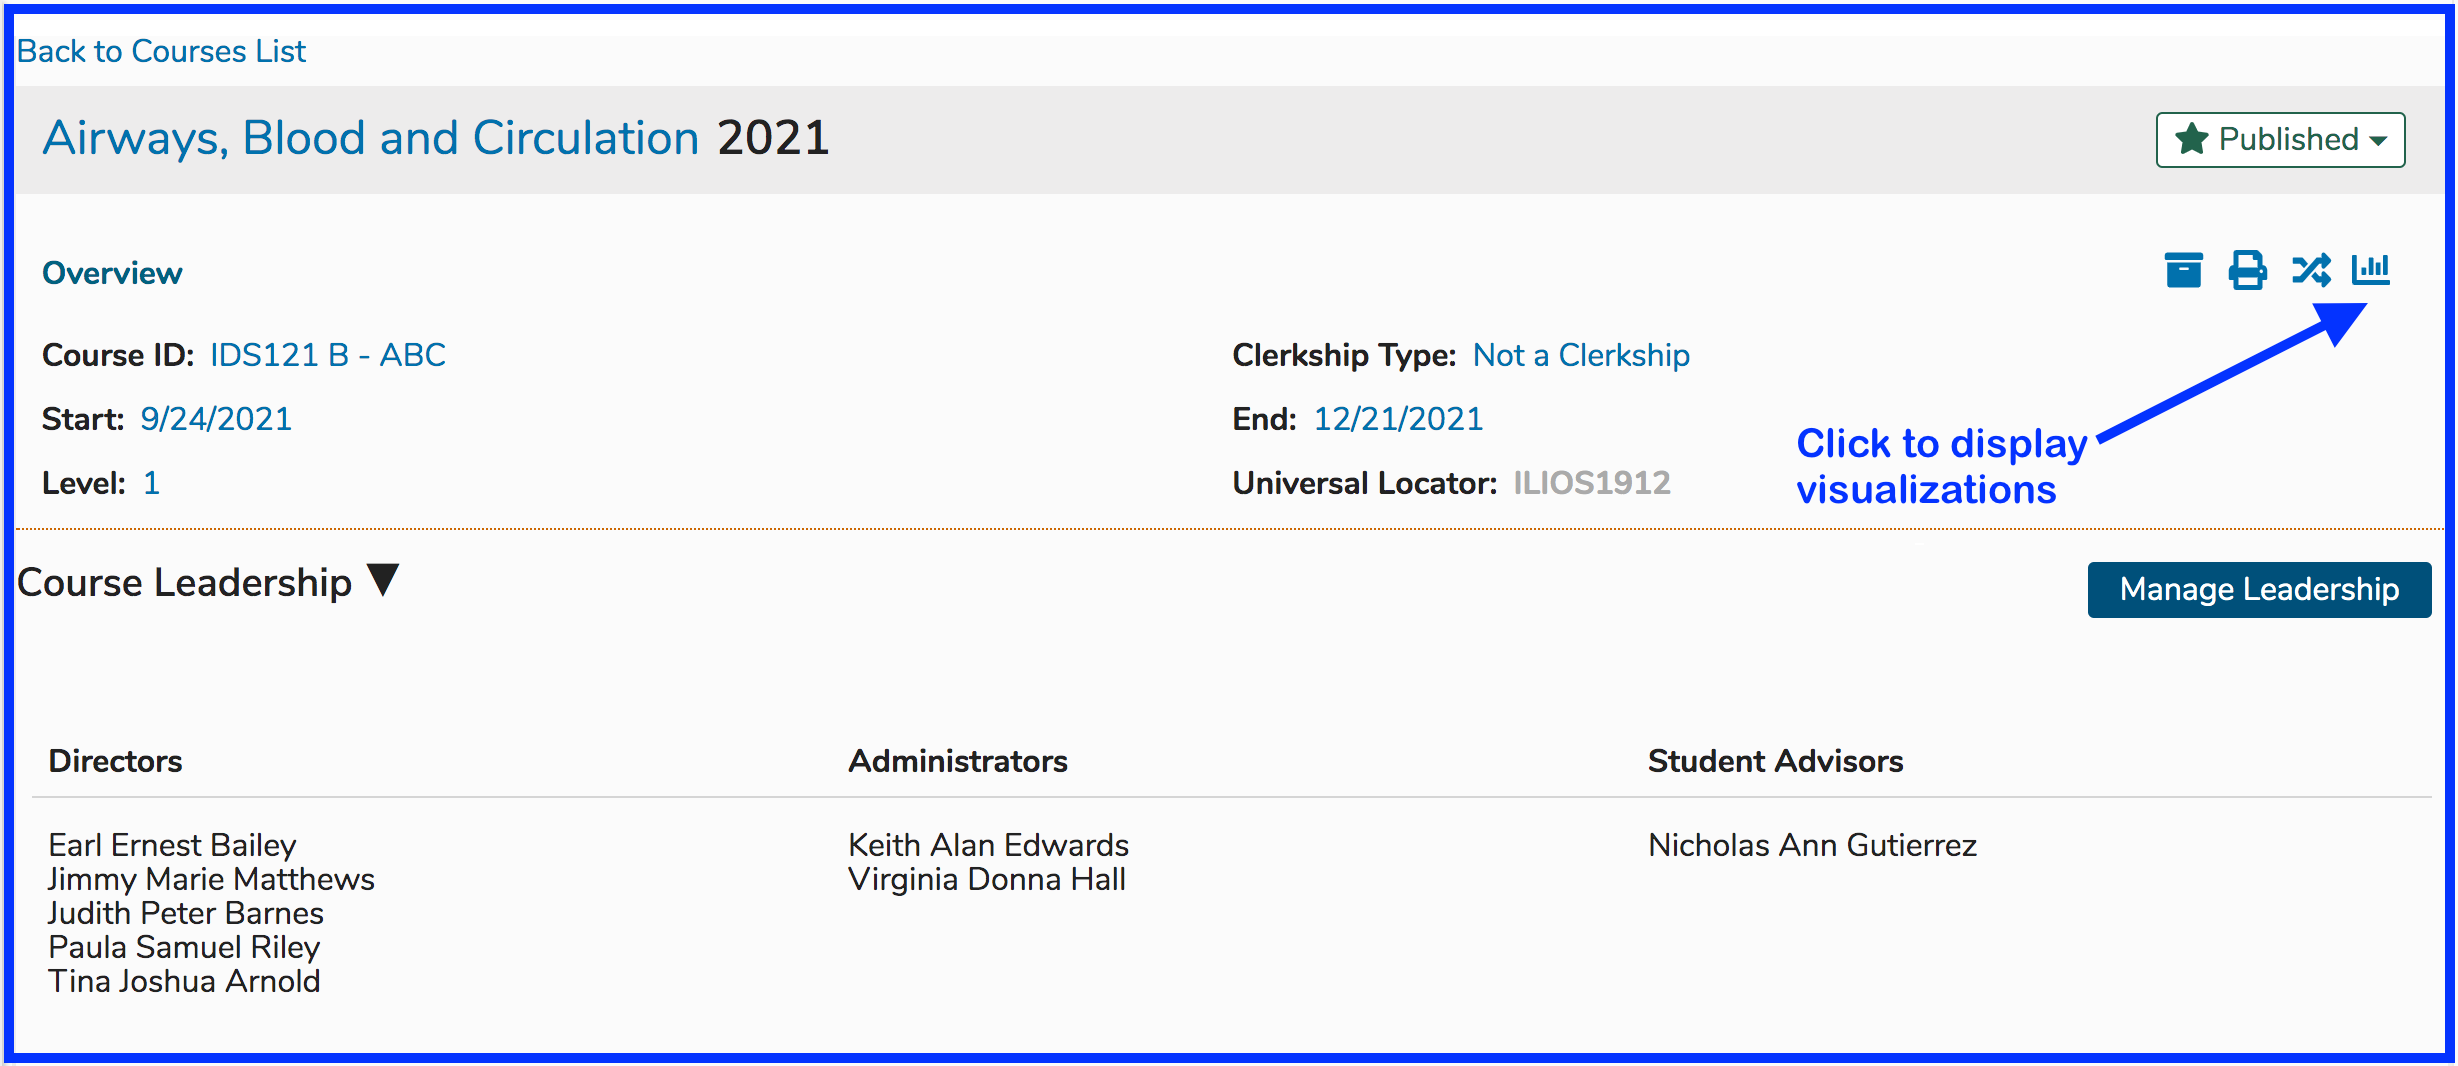
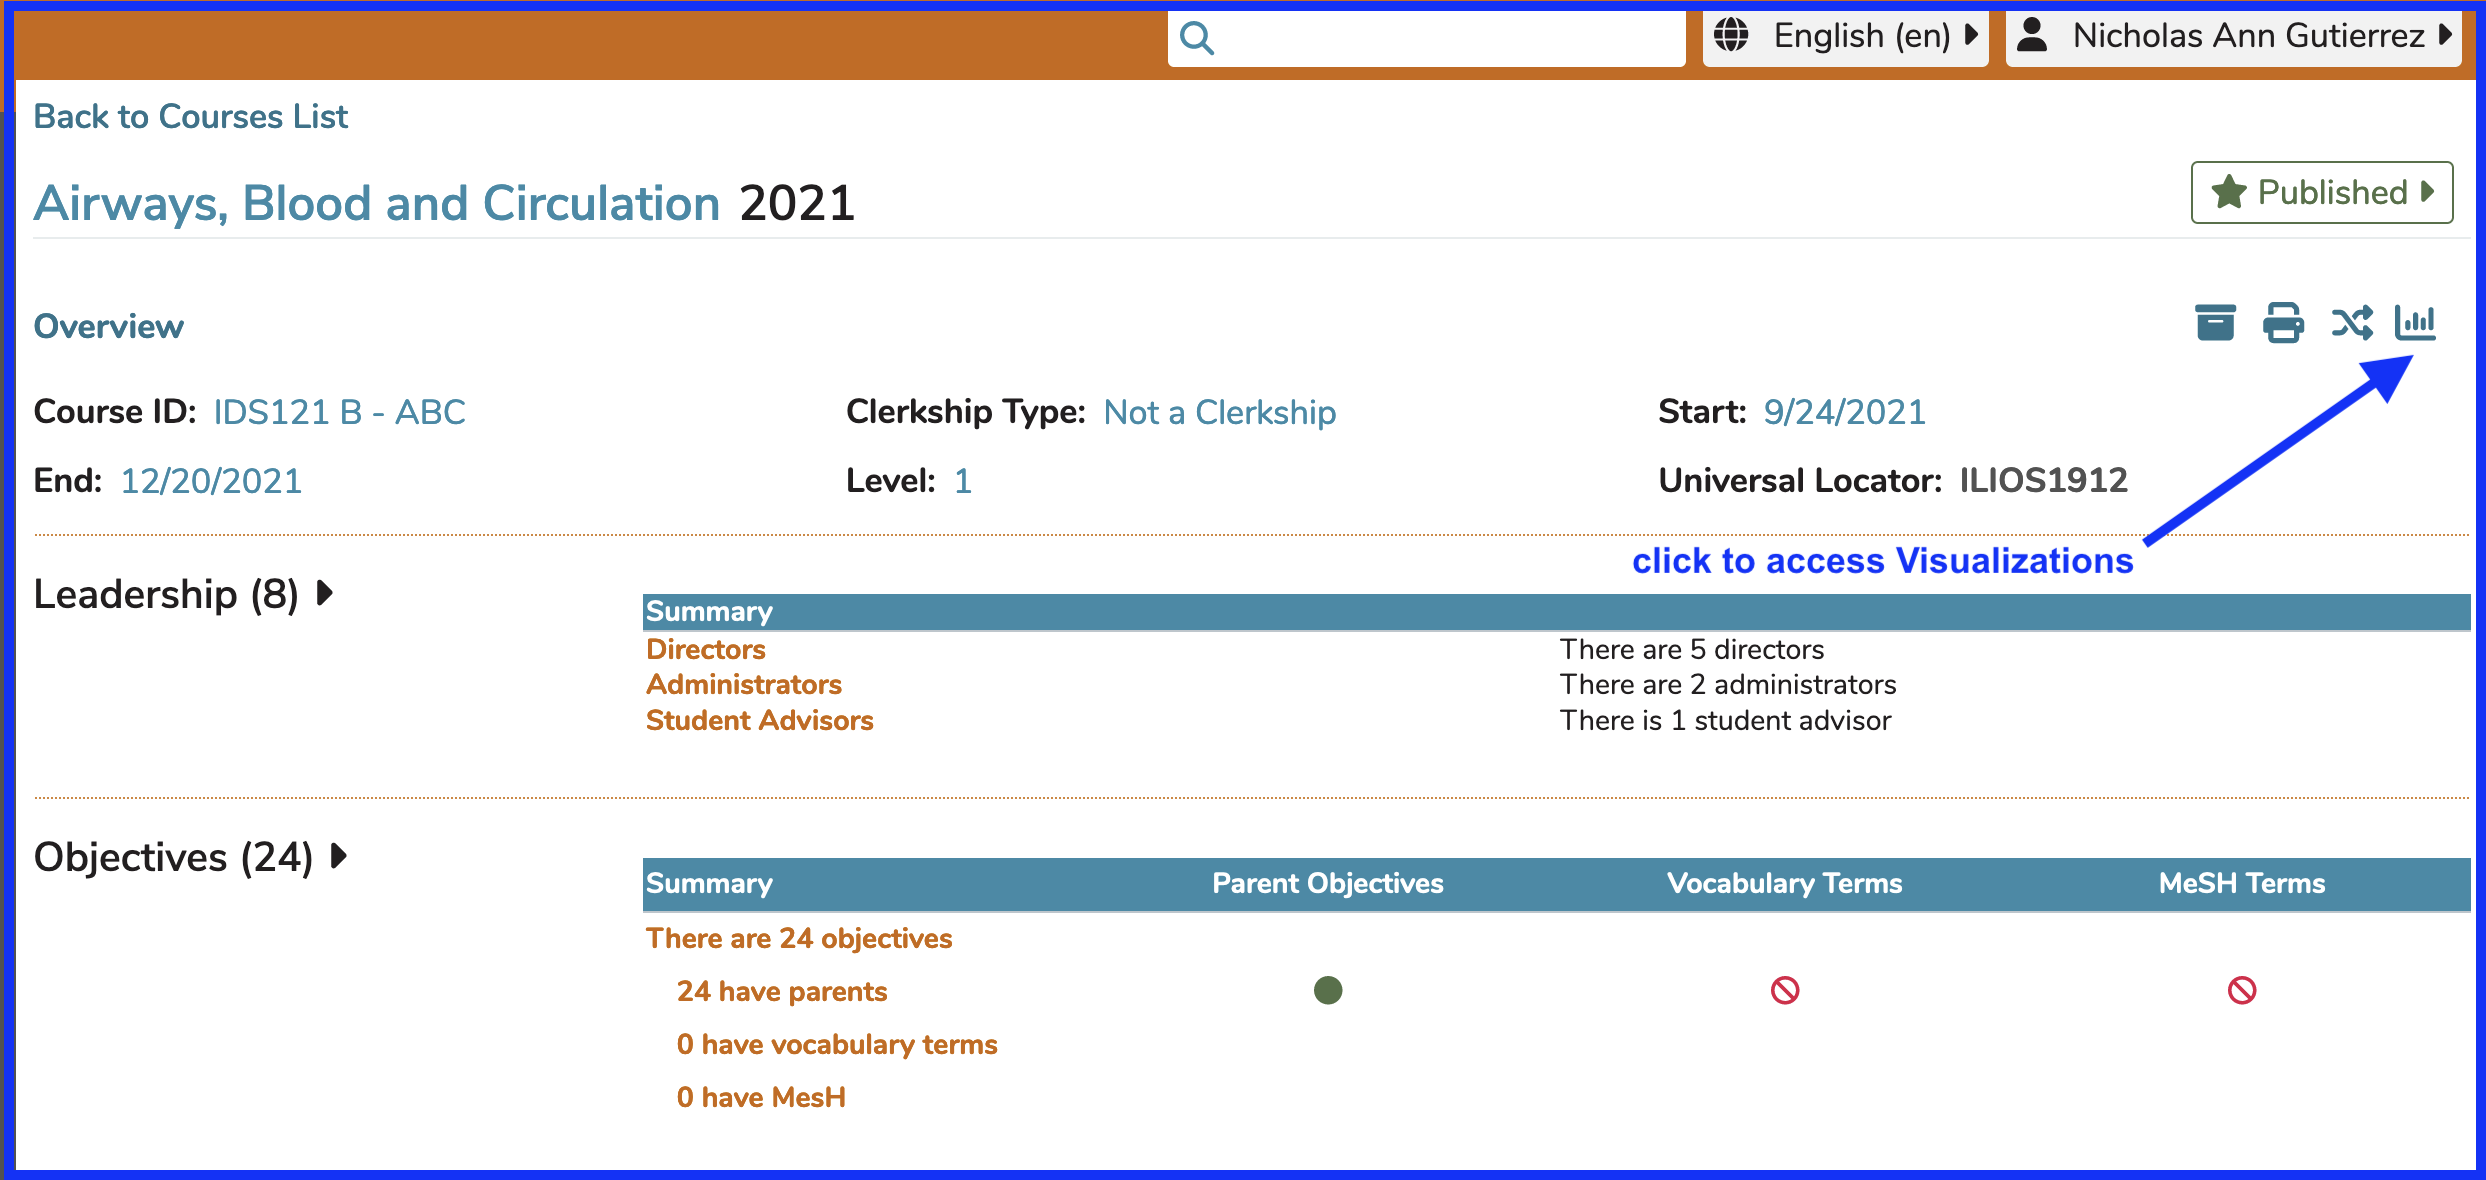
replaced course viz init image and updated chapter settings

diff --git a/courses-and-sessions/courses/visualizations.md b/courses-and-sessions/courses/visualizations.md
@@ -4,30 +4,28 @@ description: >-
   level in Ilios.
 ---
 
-# Visualizations
+# Course Visualizations
 
 Visualization are graphs and charted information intended to help make informed decisions about how Ilios is being used and how this use could be improved.
 
 One of the available charts displays the usage of Objectives and how frequently they are utilized in a Course ... or more importantly let you know when they are not being used.
 
-![Go to Course Visualizations](../../images/course_visualizations/crs_vw_1.png)
+![access course visualizations](../../images/course_visualizations/crs_vw_1.png)
 
 After clicking on the graph icon as shown above, you will see a screen similar to the following with (at the time of update) four different visualizations available to review.
-
-## Course Visualizations
 
 Each visualization currently available is displayed at this level in a donut or pie shaped graph. Clicking on any of the four will result in seeing the data in greater detail.
 
 Course Visualizations available ...
 
-* ****[**Objectives**](https://iliosproject.gitbook.io/ilios-user-guide/courses-and-sessions/courses/visualizations#objectives)****
-* ****[**Session Types**](https://iliosproject.gitbook.io/ilios-user-guide/courses-and-sessions/courses/visualizations#session-types)****
-* ****[**Vocabularies**](https://iliosproject.gitbook.io/ilios-user-guide/courses-and-sessions/courses/visualizations#vocabularies)****
-* ****[**Instructors**](https://iliosproject.gitbook.io/ilios-user-guide/courses-and-sessions/courses/visualizations#instructors)****
+* **[**Objectives**](https://iliosproject.gitbook.io/ilios-user-guide/courses-and-sessions/courses/visualizations#objectives)**
+* **[**Session Types**](https://iliosproject.gitbook.io/ilios-user-guide/courses-and-sessions/courses/visualizations#session-types)**
+* **[**Vocabularies**](https://iliosproject.gitbook.io/ilios-user-guide/courses-and-sessions/courses/visualizations#vocabularies)**
+* **[**Instructors**](https://iliosproject.gitbook.io/ilios-user-guide/courses-and-sessions/courses/visualizations#instructors)**
 
 ![Visualization - starting point](../../images/course_visualizations/crs_visualizations1.png)
 
-### Objectives
+## Objectives
 
 The example below is from a user clicking on the **Objectives** visualization (the one in the upper left corner). It is displayed as shown below.
 
@@ -35,7 +33,7 @@ Mousing over any of the Objectives will display the full text of the Objective a
 
 ![Mouse-over demonstrated](../../images/course_visualizations/obj_vis1.png)
 
-#### Data Table
+### Data Table
 
 The Objectives visualization includes a data table to review the information presented in graphical format as a table. This can be quite a long table given how many sessions can exist in a large course. The top portion of the data table for the selected course is shown below using two different sort orders. The data can be sorted by any of the output columns (ascending or descending).
 
@@ -47,7 +45,7 @@ The Objectives visualization includes a data table to review the information pre
 
 ![Sort by Competency descending](../../images/course_visualizations/Obj_Data_Table_Top_2.png)
 
-### Session Types
+## Session Types
 
 The Session Types visualization is laid out horizontally rather than in a pie chart like the Objectives visualization in the section above. In the example below, I am hovering over a specific Session Type to review the usage specific of that session type in this particular course.
 
@@ -57,7 +55,7 @@ Clicking the "Discussion, Small Group (<=12)" link on the horizontal bar chart w
 
 ![Session Types (lower level)](../../images/course_visualizations/voc_term_viz2.png)
 
-### Vocabularies
+## Vocabularies
 
 The Vocabularies visualization shows how the Vocabularies set up for your school have been using in tagging sessions with this selected Course.
 
@@ -71,7 +69,7 @@ After clicking on "UCSF 49", which is one of UCSF SOM school-specific Vocabulari
 
 In the example presented above, the mouse is hovering over one of the UCSF 49 Vocabulary terms (Bleeding Disorders). Displayed is the percentage of the total instructional time of the sessions that were tagged with UCSF 49 Vocabulary terms that were tagged with "Bleeding Disorders", along with the duration of these offerings and the listing of the associated Sessions.
 
-### Instructors
+## Instructors
 
 The Instructors visualization functions in a similar manner to Vocabularies. You do get a bit more information at the higher level though - a percentage of the total. After clicking on the Instructor's name, it takes you down into a view showing the Vocabulary Terms tagged on this Instructor's sessions along with another graph showing Session Types for this instructor's offerings. Another thing it offers, because it needs to in a complicated course, is the option to filter on the lower level (horizontal bar chart).
 
